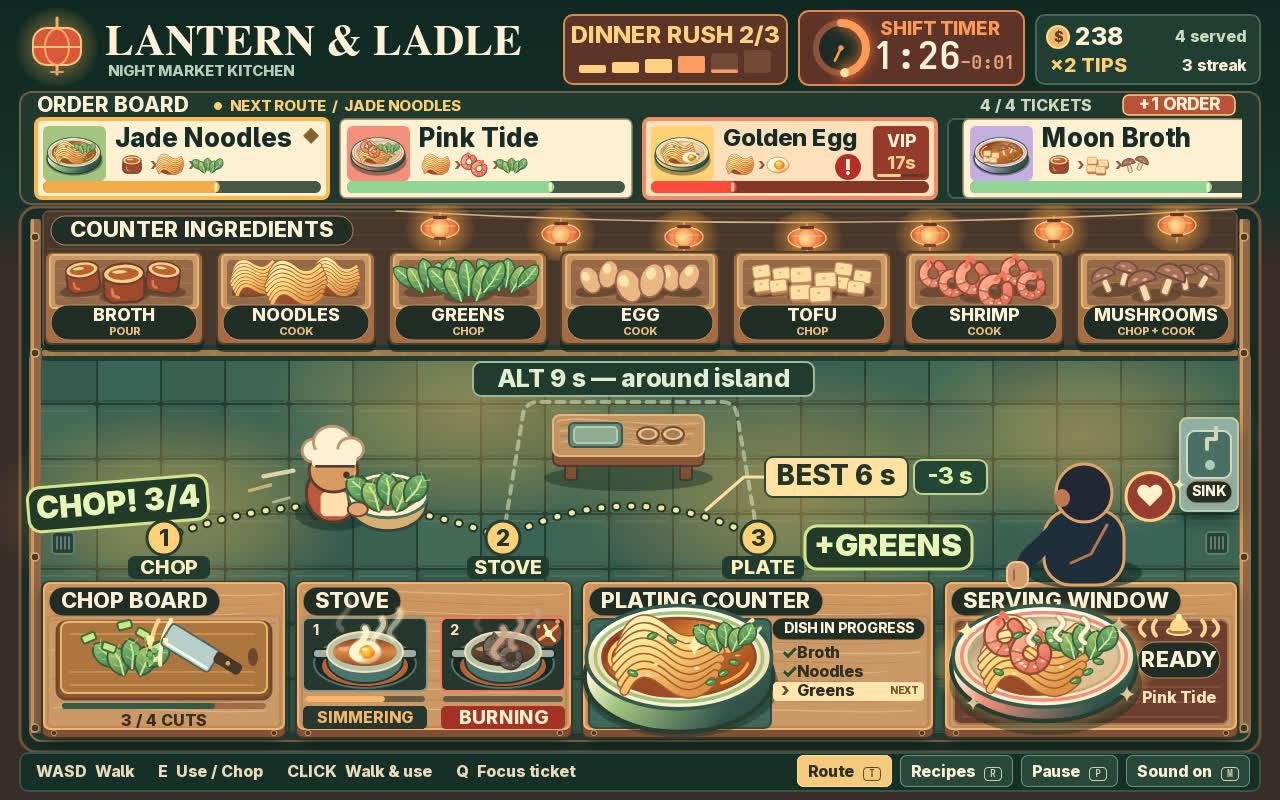
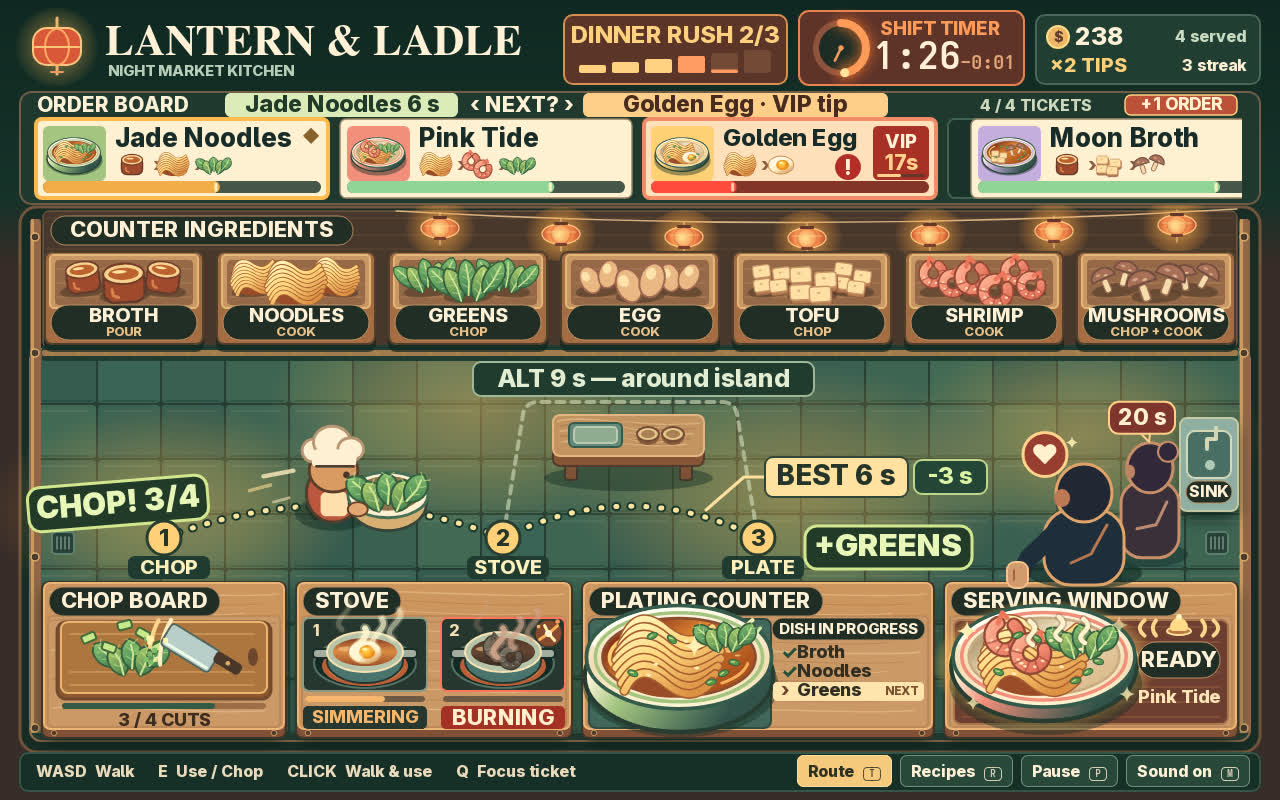
v12: next-order choice on the board, waiting queue at the window

diff --git a/game/src/kitchen.js b/game/src/kitchen.js
@@ -129,12 +129,13 @@ function floorDrain(ctx, x, y) {
 let kitchenBackdrop;
 
 function drawFurniture(ctx, state) {
+  const cover = state.shot === 'cover';
   drawCounterSign(ctx);
-  for (const crate of pantry) drawCrate(ctx, crate);
+  for (const crate of pantry) drawCrate(ctx, crate, cover);
   for (const station of worktops) drawWorktop(ctx, station);
-  drawSink(ctx);
+  drawSink(ctx, cover);
   drawChopBoard(ctx, state);
-  if (state.shot === 'cover') drawPrepIsland(ctx);
+  if (cover) drawPrepIsland(ctx);
 }
 
 function drawPrepIsland(ctx) {
@@ -155,7 +156,7 @@ function drawPrepIsland(ctx) {
   }
 }
 
-function drawCrate(ctx, crate) {
+function drawCrate(ctx, crate, cover) {
   const { id, x, y, w, h } = crate;
   panel(ctx, x - 1, y + 8, w + 2, h, 8, '#102522b0');
   panel(ctx, x, y, w, h, 7, '#a66c43', '#503e2d');
@@ -163,7 +164,7 @@ function drawCrate(ctx, crate) {
   panel(ctx, x + 10, y + 8, w - 20, 45, 4, '#956848');
   for (let i = 0; i < 3; i++) stroke(ctx, '#b38158', 1, [[x + 12, y + 17 + 14 * i], [x + w - 12, y + 17 + 14 * i]]);
   drawCrateContents(ctx, id, x + w / 2, y + 30);
-  drawCrateLabel(ctx, crate, ingredients[id]);
+  drawCrateLabel(ctx, crate, ingredients[id], cover);
 }
 
 function drawCrateContents(ctx, id, x, y) {
@@ -258,7 +259,7 @@ function drawChopBoard(ctx, state) {
   if (cover || sinceCut < .58) drawChopPop(ctx, swing, state.board.cuts, cover);
   meter(ctx, 62, 703, 204, 6, state.board.cuts / 4, '#335a45', '#9e6c48');
   const status = state.board.cuts === 4 ? 'PICK UP' : state.board.food ? `${state.board.cuts} / 4 CUTS` : 'HOLD TO CHOP';
-  label(ctx, status, 164, 721, 16, '#3b2b20', { align: 'center' });
+  label(ctx, status, 164, 721, cover ? 18 : 16, '#3b2b20', { align: 'center' });
 }
 
 function drawChopPop(ctx, age, cuts, cover) {
@@ -271,23 +272,23 @@ function drawChopPop(ctx, age, cuts, cover) {
   ctx.restore();
 }
 
-function drawSink(ctx) {
+function drawSink(ctx, cover) {
   drawStationShadow(ctx, sink.x, sink.y, sink.w, sink.h);
   panel(ctx, sink.x, sink.y, sink.w, sink.h, 7, '#90afa3', '#c4c8a4');
   panel(ctx, sink.x + 7, sink.y + 13, 44, 47, 8, '#496e65', '#d4d9b9');
   stroke(ctx, '#d4d7b6', 4, [[1216, 428], [1216, 439], [1207, 439], [1207, 449]]);
   oval(ctx, 1210, 465, 5, 5, '#b0c9b5');
-  drawKitchenSign(ctx, 'Sink', 1186, 481, 46, 22, { size: 14 });
+  drawKitchenSign(ctx, 'Sink', 1186, 481, 46, 22, { size: cover ? 16 : 14 });
 }
 
 function drawCounterSign(ctx) {
   drawKitchenSign(ctx, 'COUNTER INGREDIENTS', 51, 216, 302, 29);
 }
 
-function drawCrateLabel(ctx, crate, data) {
+function drawCrateLabel(ctx, crate, data, cover) {
   const { x, y, w } = crate;
   const prep = { pour: 'POUR', cook: 'COOK', chop: 'CHOP', both: 'CHOP + COOK' }[data.route];
-  drawKitchenSign(ctx, data.name, x + 6, y + 53, w - 12, 35, { size: 18, prep });
+  drawKitchenSign(ctx, data.name, x + 6, y + 53, w - 12, 35, { size: cover ? 20 : 18, prep, prepSize: cover ? 13 : 11 });
 }
 
 function drawStationSign(ctx, station) {
@@ -295,13 +296,13 @@ function drawStationSign(ctx, station) {
   drawKitchenSign(ctx, station.label, x + 7, y + 5, undefined, 29);
 }
 
-function drawKitchenSign(ctx, name, x, y, width, height, { size = 22, prep } = {}) {
+function drawKitchenSign(ctx, name, x, y, width, height, { size = 22, prep, prepSize = 11 } = {}) {
   const title = name.toUpperCase();
   ctx.font = `800 ${size}px system-ui`;
   const w = width ?? Math.ceil(ctx.measureText(title).width) + 24;
   panel(ctx, x, y, w, height, height / 2, '#222d27', '#ba9065', 1);
   label(ctx, title, x + w / 2, y + (prep ? 11 : height / 2), size, palette.light, { align: 'center' });
-  if (prep) label(ctx, prep, x + w / 2, y + 27, 11, '#e8bf88', { align: 'center' });
+  if (prep) label(ctx, prep, x + w / 2, y + 27, prepSize, '#e8bf88', { align: 'center' });
 }
 
 function drawServiceFooter(ctx, state) {
@@ -326,7 +327,7 @@ export function drawBurner(ctx, pot, index, x, y, scale, elapsed, coverMotion = 
   ctx.translate(x, y);
   ctx.scale(scale, scale);
   panel(ctx, -62, -42, 124, 73, 6, '#263630', warning || burning ? '#ff765b' : '#8c9b85', 2);
-  label(ctx, String(index + 1), -49, -29, 14, '#f4deb3', { align: 'center' });
+  label(ctx, String(index + 1), -49, -29, coverMotion === null ? 14 : 16, '#f4deb3', { align: 'center' });
   oval(ctx, 0, 3, 51, 25, '#142924', '#567267');
   oval(ctx, 0, 6, 43, 20, hot ? '#bd5e37' : '#425750');
   oval(ctx, 0, 6, 36, 16, null, hot ? '#f6aa5e' : '#73877b', 2.5);
@@ -354,7 +355,8 @@ export function drawBurner(ctx, pot, index, x, y, scale, elapsed, coverMotion = 
   meter(ctx, -60, 36, 120, 6, progress, warning ? '#ff785e' : colors[phase], '#6d5944');
   panel(ctx, -62, 46, 124, 23, 5, warning || burning ? '#a53125' : '#263630');
   const status = burning ? 'BURNING' : warning ? `BURN ${Math.ceil(countdown)}s` : words[phase];
-  label(ctx, status, 0, 58, burning ? 19 : 16, warning || burning ? '#fff0cf' : colors[phase], { align: 'center' });
+  const statusSize = coverMotion === null ? 16 : burning ? 22 : 18;
+  label(ctx, status, 0, 58, statusSize, warning || burning ? '#fff0cf' : colors[phase], { align: 'center' });
   ctx.restore();
 }
 
@@ -372,6 +374,7 @@ function drawSizzle(ctx, motion) {
 
 function drawPlating(ctx, state) {
   const { layers, queuedPlate } = state;
+  const cover = state.shot === 'cover';
   const choices = matchingRecipes(layers);
   const focus = focusedTicket(state)?.recipe;
   const recipe = choices.includes(focus) ? focus : choices.find(option => state.orders.some(ticket => ticket.recipe === option)) ?? choices[0];
@@ -382,16 +385,16 @@ function drawPlating(ctx, state) {
   drawDish(ctx, resting ? queuedPlate.layers : layers, 679, 659, 1.78 + bounce, resting ? queuedPlate.color : recipe.color, resting ? queuedPlate.shape : recipe.shape);
   const checklist = resting ? queuedPlate : recipe;
   drawKitchenSign(ctx, resting ? 'ON TRAY' : layers.length ? 'DISH IN PROGRESS' : 'NEXT DISH',
-    772, 618, 153, 22, { size: 14 });
+    772, 618, 153, 22, { size: cover ? 15 : 14 });
   checklist.layers.forEach((id, i) => {
     const done = resting || i < layers.length;
     const next = !resting && i === layers.length;
     if (next) panel(ctx, 773, 644 + i * 19, 151, 19, 4, '#ffe5ae');
     label(ctx, done ? '✓' : next ? '›' : '·', 781, 653 + i * 19, 19, done ? '#254f39' : '#6f452e');
-    label(ctx, ingredients[id].name, 797, 653 + i * 19, 16, '#302d23');
-    if (next) label(ctx, 'NEXT', 918, 653 + i * 19, 10, '#78502e', { align: 'right' });
+    label(ctx, ingredients[id].name, 797, 653 + i * 19, cover ? 18 : 16, '#302d23');
+    if (next) label(ctx, 'NEXT', 918, 653 + i * 19, cover ? 12 : 10, '#78502e', { align: 'right' });
   });
-  if (state.shot === 'cover') drawFallingGreens(ctx, state.coverMotion);
+  if (cover) drawFallingGreens(ctx, state.coverMotion);
 }
 
 function drawFallingGreens(ctx, motion) {
@@ -408,7 +411,11 @@ function drawFallingGreens(ctx, motion) {
 
 function drawPass(ctx, state) {
   const cover = state.shot === 'cover';
-  if (cover) drawWaitingCustomer(ctx, state.coverMotion);
+  if (cover) {
+    const vip = state.orders.find(ticket => ticket.recipe.id === 'gold');
+    if (vip) drawQueuedCustomer(ctx, Math.ceil(vip.left - state.coverMotion * 4), state.coverMotion);
+    drawWaitingCustomer(ctx, state.coverMotion);
+  }
   panel(ctx, 954, 620, 274, 104, 7, '#6e3f31', '#a9754f');
   for (let y = 627; y < 721; y += 15) stroke(ctx, '#cc88534d', 1.5, [[962, y], [1220, y]]);
   oval(ctx, 1039, 667, 78, 44, null, '#b37e56');
@@ -425,7 +432,7 @@ function drawPass(ctx, state) {
   drawReadySparkles(ctx, 1044, 665, steamTime);
   if (cover) drawReadyRing(ctx, state.coverMotion);
   drawKitchenSign(ctx, 'Ready', 1138, 642, 82, 36, { size: 22 });
-  label(ctx, state.ready.name, 1179, 698, 16, '#ffe5b7', { align: 'center' });
+  label(ctx, state.ready.name, 1179, 698, cover ? 18 : 16, '#ffe5b7', { align: 'center' });
 }
 
 function drawReadySteam(ctx, motion) {
@@ -446,6 +453,22 @@ function drawReadySteam(ctx, motion) {
   ctx.restore();
 }
 
+function drawQueuedCustomer(ctx, seconds, motion) {
+  ctx.save();
+  ctx.translate(0, Math.sin(motion * 6) * 3);
+  oval(ctx, 1152, 552, 36, 12, '#132c2880');
+  panel(ctx, 1121, 479, 58, 76, 21, '#3a303b', '#c98f69', 3);
+  stroke(ctx, '#bb8a72', 3, [[1167, 499], [1156, 522], [1137, 526]]);
+  oval(ctx, 1150, 465, 23, 25, '#31283a', '#c98f69', 3);
+  oval(ctx, 1168, 449, 10, 10, '#31283a', '#c98f69', 2);
+  oval(ctx, 1130, 469, 5, 7, '#be8462');
+
+  panel(ctx, 1109, 399, 66, 32, 10, '#7e352d', '#ffd08a', 2);
+  stroke(ctx, '#ffd08a', 2, [[1141, 431], [1149, 439], [1150, 431]]);
+  label(ctx, `${seconds} s`, 1142, 415, 23, '#fff0ce', { align: 'center' });
+  ctx.restore();
+}
+
 function drawWaitingCustomer(ctx, motion) {
   oval(ctx, 1085, 573, 57, 16, '#132c28a0');
   panel(ctx, 1044, 510, 80, 75, 27, '#202e3c', '#e2a36a', 3);
@@ -455,10 +478,10 @@ function drawWaitingCustomer(ctx, motion) {
   stroke(ctx, '#202e3c', 19, [[1057, 531], [1029, 558], [1019, 577]]);
   panel(ctx, 1007, 562, 21, 26, 8, '#d39a6f', '#f6c48f', 2);
   stroke(ctx, '#a65f42', 2, [[1014, 570], [1014, 580]]);
-  const y = 503 - Math.sin(motion * 3) * 8;
-  oval(ctx, 1150, y, 24, 24, '#983d31', '#ffd28d', 3);
-  label(ctx, '♥', 1150, y + 1, 29, '#fff0ce', { align: 'center' });
-  drawSparkle(ctx, 1179, y - 12, 6, .9);
+  const y = 461 - Math.sin(motion * 3) * 8;
+  oval(ctx, 1045, y, 22, 22, '#983d31', '#ffd28d', 3);
+  label(ctx, '♥', 1045, y + 1, 27, '#fff0ce', { align: 'center' });
+  drawSparkle(ctx, 1072, y - 12, 6, .9);
 }
 
 function drawReadyRing(ctx, motion) {

diff --git a/game/src/ui.js b/game/src/ui.js
@@ -103,11 +103,12 @@ function drawOrderBoard(ctx, state) {
   panel(ctx, 20, 92, 1240, 112, 12, '#203930', '#725d47', 2);
   label(ctx, 'ORDER BOARD', 37, 106, 21, palette.light);
   const focus = focusedTicket(state);
-  if (focus && state.showRoute) {
+  const cover = state.shot === 'cover';
+  if (cover) drawCoverDecision(ctx);
+  else if (focus && state.showRoute) {
     oval(ctx, 218, 106, 4, 4, palette.gold);
     label(ctx, `NEXT ROUTE  /  ${focus.recipe.name.toUpperCase()}`, 230, 106, 15, palette.gold);
   }
-  const cover = state.shot === 'cover';
   label(ctx, `${state.orders.length} / ${ticketCapacity} TICKETS`, cover ? 1092 : 1242, 106, 16, '#ced8bd', { align: 'right' });
   for (let i = 0; i < ticketCapacity; i++) {
     const x = ticketRailX + ticketSpacing * i;
@@ -118,9 +119,17 @@ function drawOrderBoard(ctx, state) {
   }
 }
 
+function drawCoverDecision(ctx) {
+  panel(ctx, 225, 93, 233, 24, 6, '#dcebb9');
+  label(ctx, 'Jade Noodles 6 s', 342, 105, 23, '#20392a', { align: 'center' });
+  label(ctx, '‹ NEXT? ›', 522, 105, 22, palette.light, { align: 'center' });
+  panel(ctx, 583, 93, 305, 24, 6, '#ffcf8a');
+  label(ctx, 'Golden Egg · VIP tip', 735, 105, 23, '#482b20', { align: 'center' });
+}
+
 function drawIncoming(ctx, ticket, x, motion) {
-  const remaining = 1 - Math.min(1, motion / .5);
-  const offset = Math.round(320 * remaining ** 3);
+  const remaining = 1 - Math.min(1, motion / .56);
+  const offset = Math.round((ticketWidth + 4) * remaining ** 3);
   panel(ctx, x, ticketY, ticketWidth, ticketHeight, 7, '#19322a', '#416253');
   ctx.save();
   ctx.beginPath();
@@ -151,9 +160,11 @@ function drawTicket(ctx, ticket, x, focused, motion = null) {
   panel(ctx, x + 7, y + 7, 63, 55, 6, ticket.recipe.color);
   drawDish(ctx, ticket.recipe.layers, x + 38, y + 34, .51, ticket.recipe.color, ticket.recipe.shape);
   label(ctx, ticket.recipe.name, x + 79, y + 20, motion === null ? 22 : vip ? 24 : 26, palette.ink);
+  const iconSpacing = motion === null ? 38 : 41;
   ticket.recipe.layers.forEach((id, index) => {
-    if (index) label(ctx, '›', x + 76 + index * 38, y + 47, 17, '#8d5c40');
-    drawIngredient(ctx, id, x + 96 + index * 38, y + 46, .46, 'ready');
+    const iconX = x + 96 + index * iconSpacing;
+    if (index) label(ctx, '›', iconX - 20, y + 47, motion === null ? 17 : 20, '#8d5c40');
+    drawIngredient(ctx, id, iconX, y + 46, motion === null ? .46 : .53, 'ready');
   });
   const barWidth = ticketWidth - 14;
   const fill = motion === null ? patienceColor(progress) : urgent ? (flash ? '#ff4b3d' : '#ff6254')
@@ -170,10 +181,11 @@ function drawTicket(ctx, ticket, x, focused, motion = null) {
     label(ctx, '!', markerX, y + 49, 22, '#fff0d7', { align: 'center' });
   }
   if (vip) {
-    const time = Math.ceil(ticket.vipLeft);
-    panel(ctx, x + 229, y + 7, 56, 54, 5, activeBonus ? '#963b2c' : '#6c5a4d');
-    label(ctx, 'VIP', x + 257, y + 23, 17, palette.light, { align: 'center' });
-    label(ctx, activeBonus ? `${time}s` : '—', x + 257, y + 45, 18, '#ffd28e', { align: 'center' });
+    const time = Math.ceil(ticket.vipLeft - (motion ?? 0));
+    const background = activeBonus ? (flash ? '#a83025' : '#963b2c') : '#6c5a4d';
+    panel(ctx, x + 229, y + 7, 56, 54, 5, background);
+    label(ctx, 'VIP', x + 257, y + 23, motion === null ? 17 : 19, palette.light, { align: 'center' });
+    label(ctx, activeBonus ? `${time}s` : '—', x + 257, y + 45, motion === null ? 18 : 21, '#ffd28e', { align: 'center' });
     if (activeBonus) meter(ctx, x + 233, y + 55, 48, 3, ticket.vipLeft / vipSeconds, '#ffd28e', '#65342b');
   } else if (focused) {
     label(ctx, '◆', x + 275, y + 18, 17, '#88612c', { align: 'center' });
